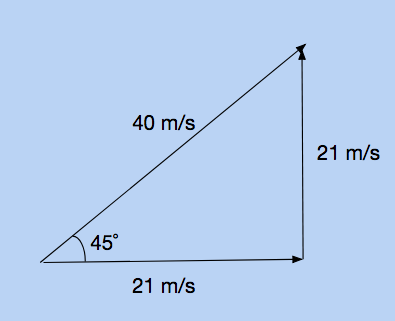
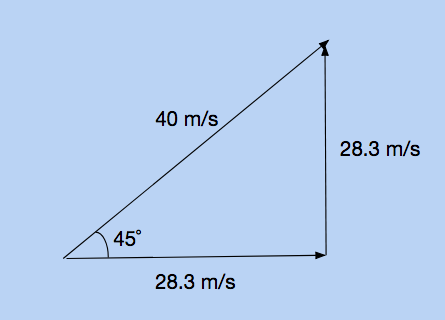
update

Changed region(s): [[0.0911, 0.125, 0.9722, 0.9375]]

diff --git a/pmg.html b/pmg.html
@@ -125,13 +125,13 @@ li {
 
 <p>A pitcher throws a ball with an initial velocity of 40 meters per second, 45 degrees up relative to the ground. If the pitcher is two meters tall, how long will it take for the ball to hit the ground. 
 
-<ul><span style="color:#008800;">1. We know that the angle is 45 degrees, and the net initial velocity is 40 meters per second. Therefore, we can break it up into <span style ="color:#8900D3;">horizontal</span> and <span style ="color:#FF8800;">vertical</span> velocity components. Using the equation above, 40 * cos(45) = 21 meters per second <span style ="color:#8900D3;">horizontally</span>. Likewise, 40 * sin(45) = 21 meters per second <span style ="color:#FF8800;">vertically.</span><br /><br />
+<ul><span style="color:#008800;">1. We know that the angle is 45 degrees, and the net initial velocity is 40 meters per second. Therefore, we can break it up into <span style ="color:#8900D3;">horizontal</span> and <span style ="color:#FF8800;">vertical</span> velocity components. Using the equation above, 40 * cos(45) = 28.3 meters per second <span style ="color:#8900D3;">horizontally</span>. Likewise, 40 * sin(45) = 28.3 meters per second <span style ="color:#FF8800;">vertically.</span><br /><br />
 
 <img src="images/pmg4.png">
 
-	2. The variabes we have in the <span style ="color:#FF8800;">vertical</span> direction are <span style ="color:#FF0000;">initial velocity (21 meters per second), acceleration (-9.8 meters per second squared), and displacement.</span> The question asks when the ball hits the ground, and since the pitcher is 5 feet tall, this will occur when the ball is displaced negative two meters.<br /><br />
-	3. The equation that relates <span style="color:#FF0000;">initial velocity, displacement, acceleration, and time</span> is the third equation. Plugging in the values and solving will give you that time = 4.38 seconds. <br /><br />
-	4. Though this question does not ask for it, if you wanted to find <span style ="color:#8900D3;">horizontal</span> displacement (how far it traveled during its path), you would simply multiply the time by the <span style ="color:#8900D3;">horizontal</span> velocity. <span style="color:#FF0000;">4.38 x 21 = 92.0 meters.</span><br />
+	2. The variabes we have in the <span style ="color:#FF8800;">vertical</span> direction are <span style ="color:#FF0000;">initial velocity (28.3 meters per second), acceleration (-9.8 meters per second squared), and displacement.</span> The question asks when the ball hits the ground, and since the pitcher is 2 meters tall, this will occur when the ball is displaced negative two meters.<br /><br />
+	3. The equation that relates <span style="color:#FF0000;">initial velocity, displacement, acceleration, and time</span> is the third equation. Plugging in the values and solving will give you that time = 5.84 seconds. <br /><br />
+	4. Though this question does not ask for it, if you wanted to find <span style ="color:#8900D3;">horizontal</span> displacement (how far it traveled during its path), you would simply multiply the time by the <span style ="color:#8900D3;">horizontal</span> velocity. <span style="color:#FF0000;"> 5.84 x 28.3 = 165.4 meters.</span><br />
 
 </ul></p>
 
@@ -152,69 +152,51 @@ li {
 <h3>Practice Problems</h3>
 
 
-<ul>1. A man stands at the edge of a cliff,some height d. He throws one stone straight upwards, with a velocity of +v. At the same time, he throws a stone straight downwards, with a velocity of -v. Which stone will hit the ground with a greater final velocity?</ul>
-<ul>2. A ball is thrown upwards. On its ascent, is the acceleration positive, zero, or negative. What about right at the peak of its motion? On its way down?</ul>
-<ul>3. A rocket starts from rest, and blasts upwards. It covers 100 meters in 5 seconds. What is its acceleration?</ul>
-<ul>4. A ball is thrown upwards with an initial velocity of 5 meters per second. At what distance from the thrower will the ball be at its greatest height?</ul>
-<ul>5. A car traveling on a freeway covers 500 meters. It accelerates at a constant 2 meters per second during its trip, and ends with a final velocity of 50 meters per second. What was its initial velocity?</ul>
-<ul>6. During a race, a runner accelerates from 8 meters per second to 10 meters per second in 2 seconds during the final stretch. What is her average acceleration?</ul>
-<ul>7. In the previous question, what distance did the runner cover while accelerating from 8 to 10 meters per second?</ul>
-<ul><i><b>8. (Challenge)</b></i> Two cars line up for a race. The gun goes off, and one shoots off from the start with an initial speed of 20 meters per second. The other car starts at rest, but accelerates slowly, at a steady 2 meters per second. How long (in seconds) will it take for the accelerating car to pass the nonaccelerating car? How far away from the starting point will this happen?</ul>
+<ul>1. In the program, how did the vertical velocity change with time? How did the horizontal velocity change with time?</ul>
+<ul>2. In the program, roughly what mathematical shape did the projectile's flight path resemble?</ul>
+<ul>3. A cannon fires its cannonball at a launch angle of 45 degrees, with an initial velocity of 40 meters per second. How far will the projectile travel?</ul>
+<ul>4. An archer fires an arrow with a launch angle of 30 degrees, with an initial velocity of 30 meters per second. If the archer is 2 meters tall, how far will the projectile travel in the x direction?</ul>
+<ul>5. A woman in a helicopter throws a ball will an initial velocity of 10 meters per second, at 60 degrees above the ground. How long will it take to hit the ground, if the helicopter is 30 meters above the ground?</ul>
+<ul><i><b>6. (Challenge)</b></i> As part of a science fair, a group of students build a cannon. The team is debating whether to set its launch angle to 30˚, or to 45˚. Which launch angle would make the projectile fly farther?</ul>
 
 
 <h3>Practice Answers</h3>
 
 <ul>1. <br />
-	<b>Both will hit the ground with the same final velocity<br /></b>
-	To verify this, we can plug in arbitrary variables to the kinematic equations. We have the displacement (d), initial velocity (positive and negative v), and since this is a freefall problem, we know each ball has the same acceleration (a = -9.8). We're trying to find final velocity, so we need to find an equation that relates displacement, initial and final velocity, and acceleration. The fourth kinematic equation satisfies this parameter. You'll notice that the initial velocity term is squared, which cancels out the negative sign, verifying that a positive or negative initial velocity will yield the same result.
+	<b>The vertical velocity degreased with each second. The horizontal velocity stayed constant.<br /></b>
 </ul>
 <ul>2. <br />
-	<b>Upwards: negative acceleration<br />
-	Peak: negative acceleration<br />
-	Downwards: negative acceleration<br /></b>
-	At every point in time, a ball in freefall will be accelerating downwards, or negatively. On its way up, its speed is decreasing, meaning that the acceleration acts in the opposite direction of the motion. On the way down, the speed is increasing, which means that the acceleration acts in the same direction of the motion. Its a bit trickier to conceptualize when the ball is at its peak, but remember that an object with zero velocity can have nonzero acceleration. Even though it is not moving at that point in time, its velocity will be negative in the next instance, so it <i>does</i> have a change in velocity (which is an acceleration).
+	<b>Parabola<br /></b>
 </ul>
 <ul>3. <br />
-	<b>Acceleration: 8 meters per second squared<br /></b>
-	1. The variables given are <span style ="color:#FF0000;">initial velocity, time, and displacement</span>. It starts from rest, which is why you can conclude that the initial velocity is 0 meters per second.<br /><br />
-	2. The question asks for <span style ="color:#FF0000;">acceleration</span>, so you are solving for variable <span style ="color:#FF0000;">"a".</span><br /><br />
-	3. The third kinematic equation is the only one that relates <span style ="color:#FF0000;">initial velocity, time, acceleration</span>, and <span style ="color:#FF0000;">displacement</span> all together.<br /><br />
-	4. Plugging in <span style ="color:#FF0000;">vi = 0, d = 100, and t = 5, </span>gives you <span style ="color:#000000;">a = 8 meters per second squared</span><br />
+	<b>Horizontal Displacement: 163.4 meters<br /></b><br />
+	Split up the velocity into horizontal and vertical components, using the sine and cosine principles.
 </ul>
+<img src="images/pmg4.png">
+<ul>Use the third kinematic equation, where initial velocity is 28.3 meters per second, acceleration is -9.8 meters per second squared, and displacement is 0 meters. You should get time = 5.78 seconds. Multiply this by horizontal velocity (28.3 meters per second), and you get horizontal displacement = 163.4 meters.</ul>
 <ul>4. <br />
-	<b>Time = .51 seconds<br /></b>
-	1. The variables given are <span style ="color:#FF0000;">initial velocity, acceleration, and final velocity</span>. It is a freefall problem, which is why you can conclude that the acceleration is -9.8 meters per second squared. It asks for when the ball is at its greatest height, so you can conclude that this is when the velocity (final velocity) equals zero.<br /><br />
-	2. The question asks for <span style ="color:#FF0000;">time</span>, so you are solving for variable <span style ="color:#FF0000;">"t".</span><br /><br />
-	3. The first kinematic equation is the only one that relates <span style ="color:#FF0000;">initial velocity, final velocity, acceleration</span>, and <span style ="color:#FF0000;">time</span> all together.<br /><br />
-	4. Plugging in <span style ="color:#FF0000;">vi = 5, vf = 0, and a = -9.8, </span>gives you <span style ="color:#000000;">t = .51 seconds.</span><br />
+	<b>Horizontal Displacement: 82.9 meters<br /></b>
+	Split up the velocity into horizontal and vertical components, using the sine and cosine principles.
+</ul>
+
+<img src="images/pmg5.png">
+
+<ul>
+Use the third kinematic equation, where initial velocity is 15 meters per second, acceleration is -9.8 meters per second squared, and displacement is -2 meters. You should get time = 3.19 seconds. Multiply this by horizontal velocity (26 meters per second), and you get horizontal displacement = 82.9 meters.
 </ul>
 <ul>5. <br />
-	<b>Initial Velocity: 22.36 meters per second</b><br />
-	1. The variables given are <span style ="color:#FF0000;">final velocity, displacement, and acceleration</span>.<br /><br />
-	2. The question asks for <span style ="color:#FF0000;">initial velocity</span>, so you are solving for variable <span style ="color:#FF0000;">"vi".</span><br /><br />
-	3. The fourth kinematic equation is the only one that relates <span style ="color:#FF0000;">final velocity, displacement, acceleration</span>, and <span style ="color:#FF0000;">initial velocity</span> all together.<br /><br />
-	4. Plugging in <span style ="color:#FF0000;">vf = 50, d = 500, and a = 2, </span>gives you <span style ="color:#000000;">vi = 22.36 meters per second.</span><br />
+	<b>Time: 3.52 seconds<br /></b>
+	Split up the velocity into horizontal and vertical components, using the sine and cosine principles.
+</ul>
+
+<img src="images/pmg6.png">
+
+<ul>
+Use the third kinematic equation, where initial velocity is 8.7 meters per second, acceleration is -9.8 meters per second squared, and displacement is -30 meters. You should get time = 3.52 seconds, which is the final answer. The question does not ask you for horizontal displacement.
 </ul>
 <ul>6. <br />
-	<b>Acceleration: 1 meter per second squared<br /></b>
-	1. The variables given are <span style ="color:#FF0000;">initial velocity, final velocity, and time</span>.<br /><br />
-	2. The question asks for <span style ="color:#FF0000;">acceleration</span>, so you are solving for variable <span style ="color:#FF0000;">"a".</span><br /><br />
-	3. The first kinematic equation is the only one that relates <span style ="color:#FF0000;">initial velocity, time, final velocity</span>, and <span style ="color:#FF0000;">acceleration</span> all together.<br /><br />
-	4. Plugging in <span style ="color:#FF0000;">vi = 8, vf = 10, and t = 2, </span>gives you <span style ="color:#000000;">a = 1 meters per second squared</span><br />
-</ul>
-
-<ul>7. <br />
-	<b>Displacement: 18 meters<br /></b>
-	1. The variables given are <span style ="color:#FF0000;">initial velocity, final velocity, and time</span>.<br /><br />
-	2. The question asks for <span style ="color:#FF0000;">displacement</span>, so you are solving for variable <span style ="color:#FF0000;">"d".</span><br /><br />
-	3. The second kinematic equation is the only one that relates <span style ="color:#FF0000;">initial velocity, final velocity, acceleration</span>, and <span style ="color:#FF0000;">displacement</span> all together.<br /><br />
-	4. Plugging in <span style ="color:#FF0000;">vi = 6, vf = 8, and t = 2, </span>gives you <span style ="color:#000000;">d = 18 meters</span><br />
-</ul>
-
-<ul>8. <br />
-	<b>Time: 20 seconds<br /></b>
-	<b>Displacement: 400 meters</b><br />
-	This is a bit harder to solve, so let's draw a schematic diagram to orient ourselves to the problem. We know that the first car (the one not accelerating) will have a final velocity of 20 meters per second, as it does not accelerate. We do not know the final velocity of the accelerating car.
+	<b>45˚ will launch farther<br /></b>
+	Though this might seem daunting to start, we can simply start solving this the way we've always solved projectile motion problems. However, this time, we will be using variables instead of real numbers. We will start by breaking down the velocity into components.
 </ul>
 
 <img src="images/kinematics3.png">
